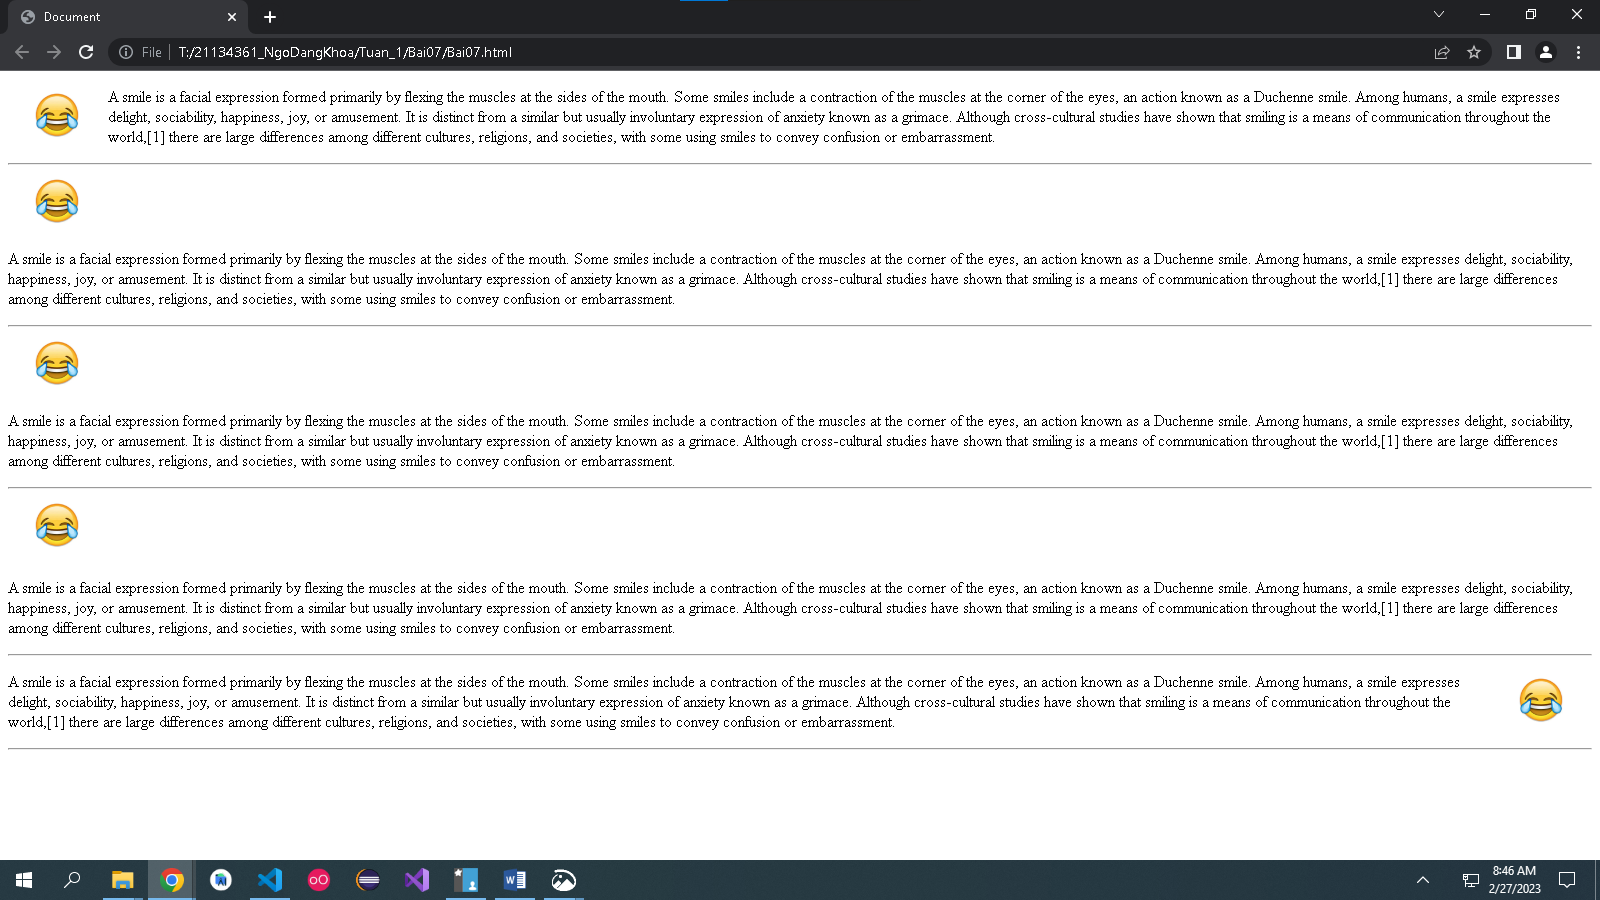
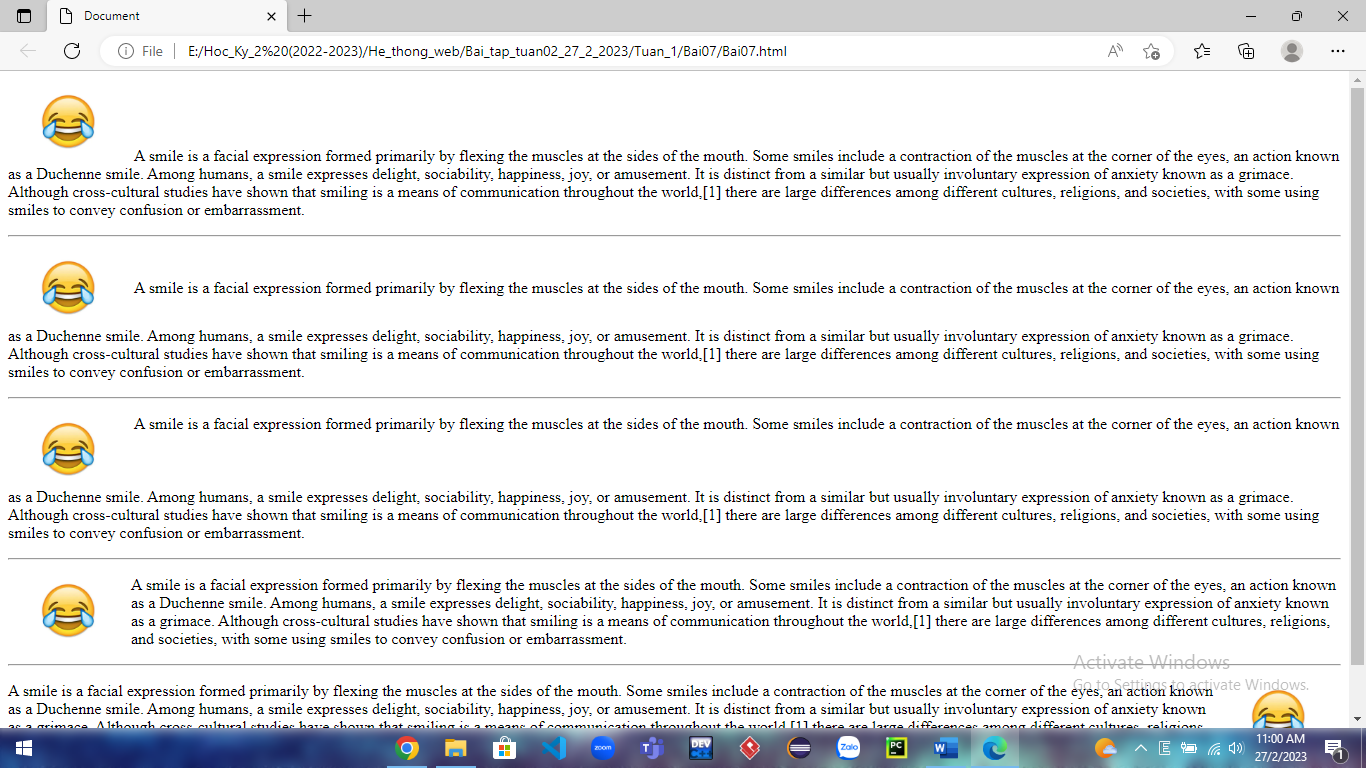
web_chuong1_bai07.html and bai07.png

diff --git a/Bai07/Bai07.html b/Bai07/Bai07.html
@@ -7,37 +7,49 @@
     <title>Document</title>
     <style>
         img {
-            width: 100px;
+            width: 123px;
+            display: inline-block;
         }
     </style>
 </head>
 <body>
     <div>
-        <div>
-            <img align="left" src="https://i.guim.co.uk/img/media/a1b7129c950433c9919f5670c92ef83aa1c682d9/0_348_2080_1248/master/2080.jpg?width=700&quality=85&auto=format&fit=max&s=039f0f16f6d8a546644d708a9a769b10" alt="">
-            <p>A smile is a facial expression formed primarily by flexing the muscles at the sides of the mouth. Some smiles include a contraction of the muscles at the corner of the eyes, an action known as a Duchenne smile. Among humans, a smile expresses delight, sociability, happiness, joy, or amusement. It is distinct from a similar but usually involuntary expression of anxiety known as a grimace. Although cross-cultural studies have shown that smiling is a means of communication throughout the world,[1] there are large differences among different cultures, religions, and societies, with some using smiles to convey confusion or embarrassment.</p>
+        <div> 
+            <p>
+                <img align="" src="https://i.guim.co.uk/img/media/a1b7129c950433c9919f5670c92ef83aa1c682d9/0_348_2080_1248/master/2080.jpg?width=700&quality=85&auto=format&fit=max&s=039f0f16f6d8a546644d708a9a769b10" alt="">
+                A smile is a facial expression formed primarily by flexing the muscles at the sides of the mouth. Some smiles include a contraction of the muscles at the corner of the eyes, an action known as a Duchenne smile. Among humans, a smile expresses delight, sociability, happiness, joy, or amusement. It is distinct from a similar but usually involuntary expression of anxiety known as a grimace. Although cross-cultural studies have shown that smiling is a means of communication throughout the world,[1] there are large differences among different cultures, religions, and societies, with some using smiles to convey confusion or embarrassment.
+            </p>
         </div>
         <hr>
-        <div>
-            <img align="middle" src="https://i.guim.co.uk/img/media/a1b7129c950433c9919f5670c92ef83aa1c682d9/0_348_2080_1248/master/2080.jpg?width=700&quality=85&auto=format&fit=max&s=039f0f16f6d8a546644d708a9a769b10" alt="">
-            <p>A smile is a facial expression formed primarily by flexing the muscles at the sides of the mouth. Some smiles include a contraction of the muscles at the corner of the eyes, an action known as a Duchenne smile. Among humans, a smile expresses delight, sociability, happiness, joy, or amusement. It is distinct from a similar but usually involuntary expression of anxiety known as a grimace. Although cross-cultural studies have shown that smiling is a means of communication throughout the world,[1] there are large differences among different cultures, religions, and societies, with some using smiles to convey confusion or embarrassment.</p>
+        <div> 
+            <p>
+                <img style="vertical-align: middle" src="https://i.guim.co.uk/img/media/a1b7129c950433c9919f5670c92ef83aa1c682d9/0_348_2080_1248/master/2080.jpg?width=700&quality=85&auto=format&fit=max&s=039f0f16f6d8a546644d708a9a769b10" alt="">
+                A smile is a facial expression formed primarily by flexing the muscles at the sides of the mouth. Some smiles include a contraction of the muscles at the corner of the eyes, an action known as a Duchenne smile. Among humans, a smile expresses delight, sociability, happiness, joy, or amusement. It is distinct from a similar but usually involuntary expression of anxiety known as a grimace. Although cross-cultural studies have shown that smiling is a means of communication throughout the world,[1] there are large differences among different cultures, religions, and societies, with some using smiles to convey confusion or embarrassment.
+            </p>
         </div>
         <hr>
-        <div>
-            <img align="top" src="https://i.guim.co.uk/img/media/a1b7129c950433c9919f5670c92ef83aa1c682d9/0_348_2080_1248/master/2080.jpg?width=700&quality=85&auto=format&fit=max&s=039f0f16f6d8a546644d708a9a769b10" alt="">
-            <p>A smile is a facial expression formed primarily by flexing the muscles at the sides of the mouth. Some smiles include a contraction of the muscles at the corner of the eyes, an action known as a Duchenne smile. Among humans, a smile expresses delight, sociability, happiness, joy, or amusement. It is distinct from a similar but usually involuntary expression of anxiety known as a grimace. Although cross-cultural studies have shown that smiling is a means of communication throughout the world,[1] there are large differences among different cultures, religions, and societies, with some using smiles to convey confusion or embarrassment.</p>
+        <div> 
+            <p>
+                <img style="vertical-align: text-top" src="https://i.guim.co.uk/img/media/a1b7129c950433c9919f5670c92ef83aa1c682d9/0_348_2080_1248/master/2080.jpg?width=700&quality=85&auto=format&fit=max&s=039f0f16f6d8a546644d708a9a769b10" alt="">
+                A smile is a facial expression formed primarily by flexing the muscles at the sides of the mouth. Some smiles include a contraction of the muscles at the corner of the eyes, an action known as a Duchenne smile. Among humans, a smile expresses delight, sociability, happiness, joy, or amusement. It is distinct from a similar but usually involuntary expression of anxiety known as a grimace. Although cross-cultural studies have shown that smiling is a means of communication throughout the world,[1] there are large differences among different cultures, religions, and societies, with some using smiles to convey confusion or embarrassment.
+            </p>
         </div>
         <hr>
-        <div>
-            <img align="bottom" src="https://i.guim.co.uk/img/media/a1b7129c950433c9919f5670c92ef83aa1c682d9/0_348_2080_1248/master/2080.jpg?width=700&quality=85&auto=format&fit=max&s=039f0f16f6d8a546644d708a9a769b10" alt="">
-            <p>A smile is a facial expression formed primarily by flexing the muscles at the sides of the mouth. Some smiles include a contraction of the muscles at the corner of the eyes, an action known as a Duchenne smile. Among humans, a smile expresses delight, sociability, happiness, joy, or amusement. It is distinct from a similar but usually involuntary expression of anxiety known as a grimace. Although cross-cultural studies have shown that smiling is a means of communication throughout the world,[1] there are large differences among different cultures, religions, and societies, with some using smiles to convey confusion or embarrassment.</p>
+        <div> 
+            <p>
+                <img align="left" src="https://i.guim.co.uk/img/media/a1b7129c950433c9919f5670c92ef83aa1c682d9/0_348_2080_1248/master/2080.jpg?width=700&quality=85&auto=format&fit=max&s=039f0f16f6d8a546644d708a9a769b10" alt="">
+                A smile is a facial expression formed primarily by flexing the muscles at the sides of the mouth. Some smiles include a contraction of the muscles at the corner of the eyes, an action known as a Duchenne smile. Among humans, a smile expresses delight, sociability, happiness, joy, or amusement. It is distinct from a similar but usually involuntary expression of anxiety known as a grimace. Although cross-cultural studies have shown that smiling is a means of communication throughout the world,[1] there are large differences among different cultures, religions, and societies, with some using smiles to convey confusion or embarrassment.
+            </p>
         </div>
         <hr>
-        <div>
-            <img align="right" src="https://i.guim.co.uk/img/media/a1b7129c950433c9919f5670c92ef83aa1c682d9/0_348_2080_1248/master/2080.jpg?width=700&quality=85&auto=format&fit=max&s=039f0f16f6d8a546644d708a9a769b10" alt="">
-            <p>A smile is a facial expression formed primarily by flexing the muscles at the sides of the mouth. Some smiles include a contraction of the muscles at the corner of the eyes, an action known as a Duchenne smile. Among humans, a smile expresses delight, sociability, happiness, joy, or amusement. It is distinct from a similar but usually involuntary expression of anxiety known as a grimace. Although cross-cultural studies have shown that smiling is a means of communication throughout the world,[1] there are large differences among different cultures, religions, and societies, with some using smiles to convey confusion or embarrassment.</p>
+        <div> 
+            <p>
+                <img align="right" src="https://i.guim.co.uk/img/media/a1b7129c950433c9919f5670c92ef83aa1c682d9/0_348_2080_1248/master/2080.jpg?width=700&quality=85&auto=format&fit=max&s=039f0f16f6d8a546644d708a9a769b10" alt="">
+                A smile is a facial expression formed primarily by flexing the muscles at the sides of the mouth. Some smiles include a contraction of the muscles at the corner of the eyes, an action known as a Duchenne smile. Among humans, a smile expresses delight, sociability, happiness, joy, or amusement. It is distinct from a similar but usually involuntary expression of anxiety known as a grimace. Although cross-cultural studies have shown that smiling is a means of communication throughout the world,[1] there are large differences among different cultures, religions, and societies, with some using smiles to convey confusion or embarrassment.
+            </p>
         </div>
         <hr>
+        
     </div>
 </body>
 </html>
